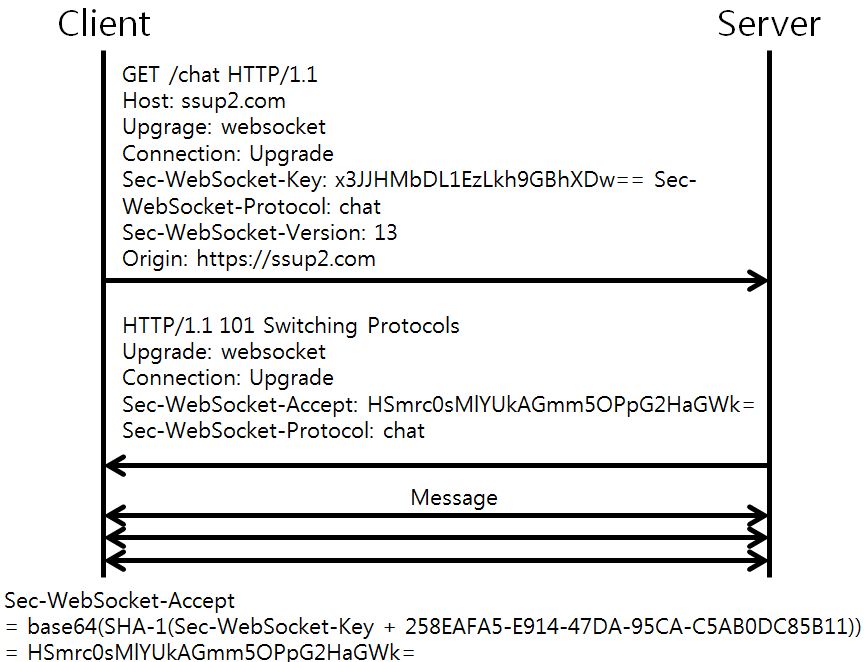
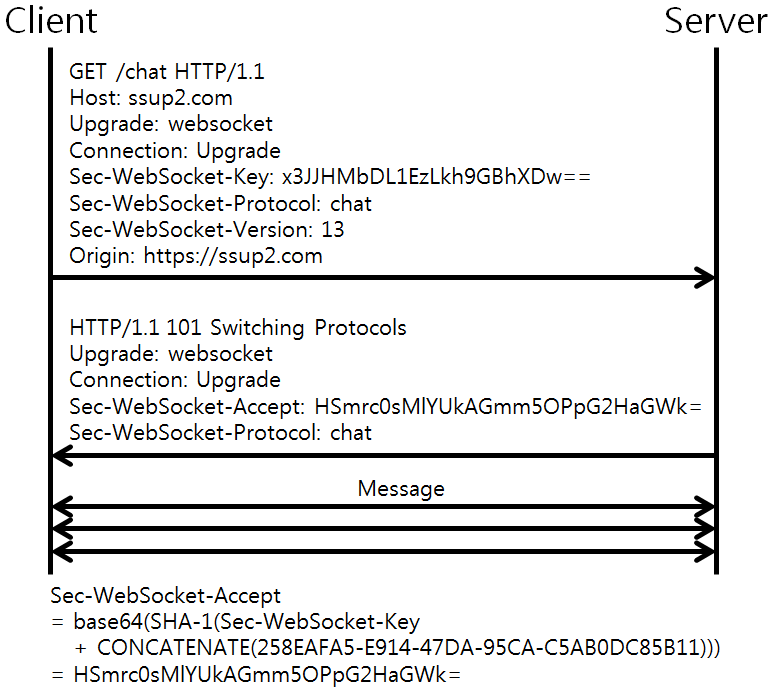
Update WebSocket

Changed region(s): [[0.0, 0.0, 0.9922, 1.0]]

diff --git a/_docs/theory_analysis/WebSocket.md b/_docs/theory_analysis/WebSocket.md
@@ -11,11 +11,15 @@ WebSocket을 분석한다.
 
 ### 1. WebSocket
 
-WebSocket은 Web에서 이용가능한 **Full-duplex** Communication 기술이다. WebSocket은 HTTP를 이용하여 Handshaking을 수행하지만, 일단 WebSocket Session이 생성되면 HTTP의 Respose/Request Message 방식이 아니라 일반 Socket처럼 Message Stream을 주고 받는다.
+WebSocket은 Web에서 이용가능한 **Full-duplex** Communication 기술이다. WebSocket은 HTTP를 이용하여 Handshaking을 수행하지만, 일단 WebSocket Session이 생성되면 HTTP의 Respose/Request Message 방식이 아니라 일반 Socket처럼 Stream Message을 주고 받는다.
 
 ![]({{site.baseurl}}/images/theory_analysis/WebSocket/WebSocket_Handshaking.PNG){: width="600px"}
 
-위의 그림은 WebSocket의 Handshaking 과정을 나타내고 있다.
+위의 그림은 WebSocket의 Handshaking 과정을 나타내고 있다. Client가 먼저 HTTP의 Upgrade Header를 이용하여 WebSocket 사용을 요청한다. Sec-WebSocket-Key는 Random으로 생성되는 값으로써 Sec-WebSocket-Accept 값을 구할때 이용되는 값이다. Client는 Sec-WebSocket-Accept값을 통해 자신이 요청한 WebSocket Handshaking에 대한 응답인지 확인할 수 있다.
+
+Sec-WebSocket-Accept값은 "258EAFA5-E914-47DA-95CA-C5AB0DC85B11" 문자열을 CONCATENATE 한 값과 Sec-WebSocket-Accept값을 더한 다음 SHA-1 Hashing과 Base64 Encoding을 통해 구할 수 있다. Sec-WebSocket-Protocol은 Application이 이용할 SubProtocol을 나타낸다.
+
+WebSocket Handshaking이 완료된뒤 Clinet, Service는 자유롭게 Message를 주고 받는다. Message는 **Data Frame**라는 작은 단위로 쪼개져서 전송된다. Data Frame은 작은 크기의 Header와 Payload로 구성되어 있다.
 
 ### 2. 참조
 * [https://tools.ietf.org/html/rfc6455](https://tools.ietf.org/html/rfc6455)
